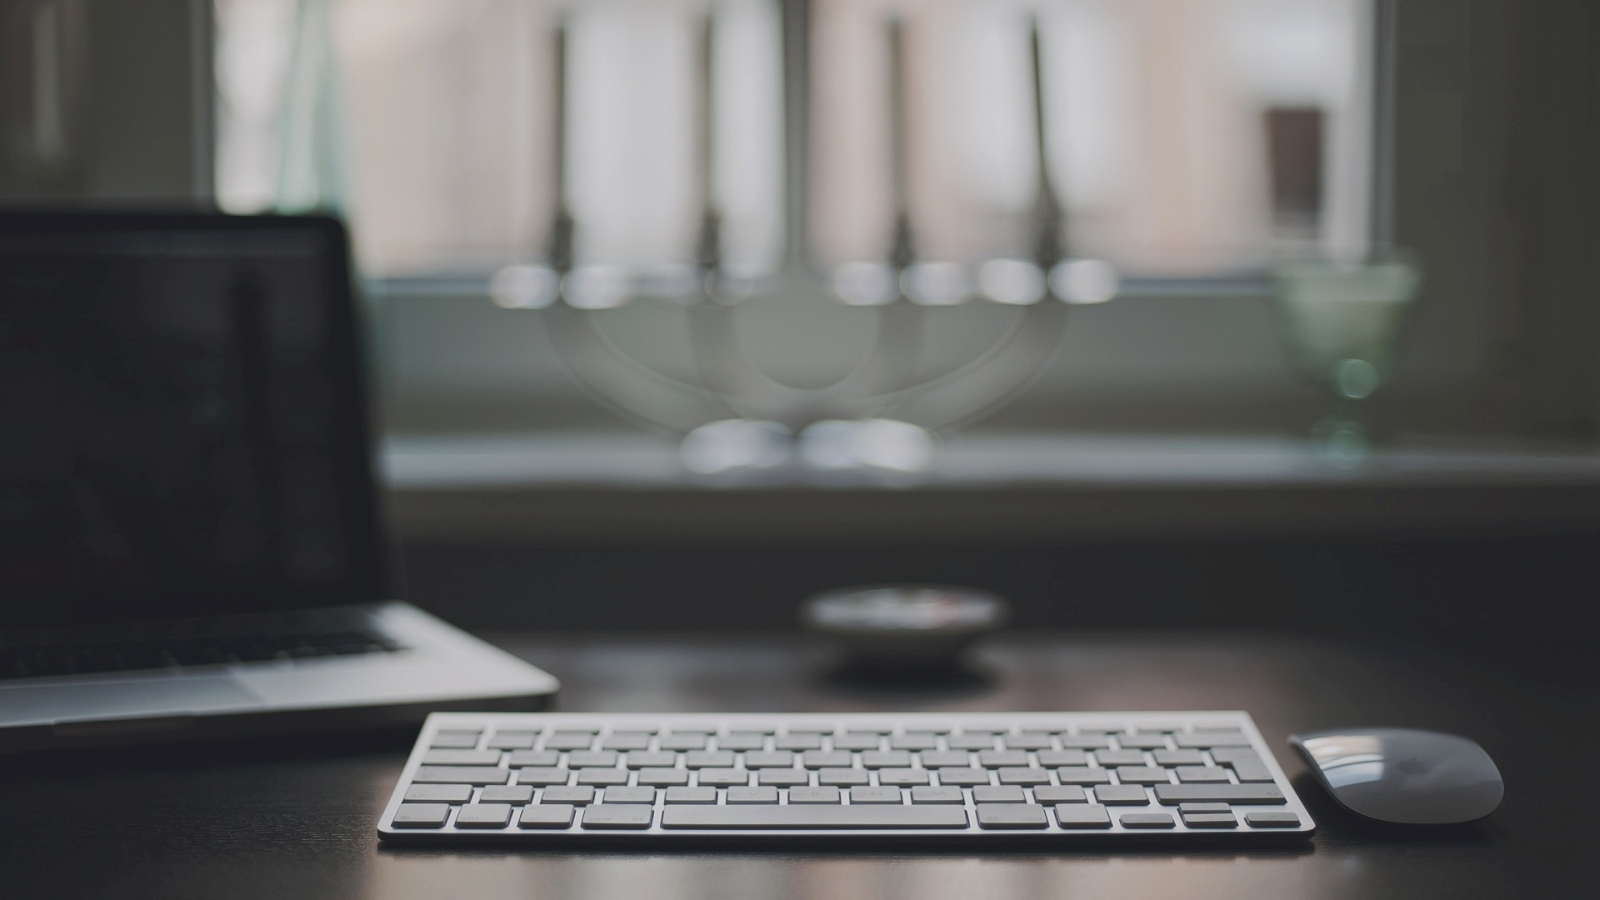
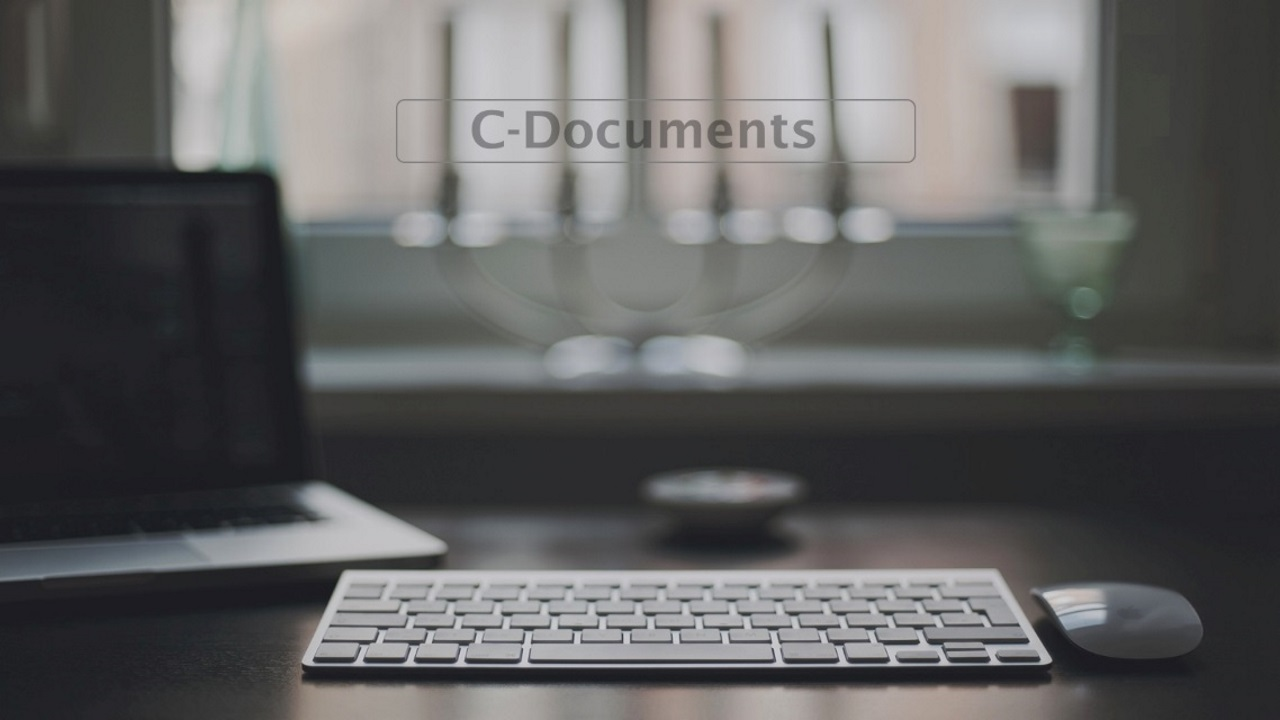
cambiado el welcome y agregado número de  cliente en documents y transmittals

Changed region(s): [[0.3438, 0.1528, 0.6562, 0.2139]]

diff --git a/database/seeds/DocumentsTableSeeder.php b/database/seeds/DocumentsTableSeeder.php
@@ -13,17 +13,17 @@ class DocumentsTableSeeder extends Seeder
     {
       DB::table('documents')->insert([
 
-        ["title"=>"Titulo 1","number"=>"0001","revision"=>"A","revision_date"=>"2006-01-01","user_id"=>"1","area_id"=>"1","discipline_id"=>"2","status_id"=>"1","project_id"=>"2","division_id"=>"2"  ],
-  ["title"=>"Titulo 2","number"=>"0002","revision"=>"A","revision_date"=>"2006-01-01","user_id"=>"1","area_id"=>"1","discipline_id"=>"2","status_id"=>"1","project_id"=>"2","division_id"=>"2"],
-  ["title"=>"Titulo 3","number"=>"0003","revision"=>"A","revision_date"=>"2006-01-01","user_id"=>"1","area_id"=>"1","discipline_id"=>"2","status_id"=>"1","project_id"=>"2","division_id"=>"2"],
-  ["title"=>"Titulo 4","number"=>"0004","revision"=>"A","revision_date"=>"2006-01-01","user_id"=>"1","area_id"=>"1","discipline_id"=>"2","status_id"=>"1","project_id"=>"2","division_id"=>"3"],
-  ["title"=>"Titulo 1","number"=>"0005","revision"=>"A","revision_date"=>"2006-01-01","user_id"=>"1","area_id"=>"1","discipline_id"=>"2","status_id"=>"1","project_id"=>"2","division_id"=>"1"],
-  ["title"=>"Titulo 1","number"=>"0005","revision"=>"A","revision_date"=>"2006-01-01","user_id"=>"1","area_id"=>"2","discipline_id"=>"2","status_id"=>"2","project_id"=>"2","division_id"=>"2"],
-  ["title"=>"Titulo 1","number"=>"0007","revision"=>"A","revision_date"=>"2006-01-01","user_id"=>"1","area_id"=>"3","discipline_id"=>"2","status_id"=>"3","project_id"=>"2","division_id"=>"2"],
-  ["title"=>"Titulo 1","number"=>"0006","revision"=>"A","revision_date"=>"2006-01-01","user_id"=>"1","area_id"=>"1","discipline_id"=>"2","status_id"=>"1","project_id"=>"2","division_id"=>"2"],
-  ["title"=>"Titulo 1","number"=>"0007","revision"=>"A","revision_date"=>"2006-01-01","user_id"=>"1","area_id"=>"1","discipline_id"=>"2","status_id"=>"1","project_id"=>"2","division_id"=>"1"],
-  ["title"=>"Titulo 1","number"=>"0008","revision"=>"A","revision_date"=>"2006-01-01","user_id"=>"1","area_id"=>"1","discipline_id"=>"2","status_id"=>"1","project_id"=>"2","division_id"=>"2"],
-  ["title"=>"Titulo 1","number"=>"0009","revision"=>"A","revision_date"=>"2006-01-01","user_id"=>"1","area_id"=>"1","discipline_id"=>"2","status_id"=>"1","project_id"=>"2","division_id"=>"2"]
+        ["title"=>"Titulo 1","number"=>"0001","revision"=>"A","revision_date"=>"2006-01-01","client_code"=>"","user_id"=>"1","area_id"=>"1","discipline_id"=>"2","status_id"=>"1","project_id"=>"2","division_id"=>"2"  ],
+  ["title"=>"Titulo 2","number"=>"0002","revision"=>"A","revision_date"=>"2006-01-01","client_code"=>"","user_id"=>"1","area_id"=>"1","discipline_id"=>"2","status_id"=>"1","project_id"=>"2","division_id"=>"2"],
+  ["title"=>"Titulo 3","number"=>"0003","revision"=>"A","revision_date"=>"2006-01-01","client_code"=>"","user_id"=>"1","area_id"=>"1","discipline_id"=>"2","status_id"=>"1","project_id"=>"2","division_id"=>"2"],
+  ["title"=>"Titulo 4","number"=>"0004","revision"=>"A","revision_date"=>"2006-01-01","client_code"=>"","user_id"=>"1","area_id"=>"1","discipline_id"=>"2","status_id"=>"1","project_id"=>"2","division_id"=>"3"],
+  ["title"=>"Titulo 1","number"=>"0005","revision"=>"A","revision_date"=>"2006-01-01","client_code"=>"","user_id"=>"1","area_id"=>"1","discipline_id"=>"2","status_id"=>"1","project_id"=>"2","division_id"=>"1"],
+  ["title"=>"Titulo 1","number"=>"0005","revision"=>"A","revision_date"=>"2006-01-01","client_code"=>"","user_id"=>"1","area_id"=>"2","discipline_id"=>"2","status_id"=>"2","project_id"=>"2","division_id"=>"2"],
+  ["title"=>"Titulo 1","number"=>"0007","revision"=>"A","revision_date"=>"2006-01-01","client_code"=>"","user_id"=>"1","area_id"=>"3","discipline_id"=>"2","status_id"=>"3","project_id"=>"2","division_id"=>"2"],
+  ["title"=>"Titulo 1","number"=>"0006","revision"=>"A","revision_date"=>"2006-01-01","client_code"=>"","user_id"=>"1","area_id"=>"1","discipline_id"=>"2","status_id"=>"1","project_id"=>"2","division_id"=>"2"],
+  ["title"=>"Titulo 1","number"=>"0007","revision"=>"A","revision_date"=>"2006-01-01","client_code"=>"","user_id"=>"1","area_id"=>"1","discipline_id"=>"2","status_id"=>"1","project_id"=>"2","division_id"=>"1"],
+  ["title"=>"Titulo 1","number"=>"0008","revision"=>"A","revision_date"=>"2006-01-01","client_code"=>"","user_id"=>"1","area_id"=>"1","discipline_id"=>"2","status_id"=>"1","project_id"=>"2","division_id"=>"2"],
+  ["title"=>"Titulo 1","number"=>"0009","revision"=>"A","revision_date"=>"2006-01-01","client_code"=>"","user_id"=>"1","area_id"=>"1","discipline_id"=>"2","status_id"=>"1","project_id"=>"2","division_id"=>"2"]
 
             ]);
     }

diff --git a/resources/views/layouts/app.blade.php b/resources/views/layouts/app.blade.php
@@ -19,7 +19,7 @@ $transmittals  = \App\Transmittal::all();
     <!-- CSRF Token -->
     <meta name="csrf-token" content="{{ csrf_token() }}">
 
-    <title>{{ config('app.name', 'C-Docs') }}</title>
+    <title>{{ config('app.name', 'C-Documents') }}</title>
 
     <!-- Styles -->
     <link href="/css/app.css" rel="stylesheet">
@@ -48,14 +48,14 @@ $transmittals  = \App\Transmittal::all();
 
                     <!-- Branding Image -->
                     <a class="navbar-brand" href="{{ url('/') }}">
-                        {{ config('app.name', 'C-Docs') }}
+                        {{ config('app.name', 'C-Documents') }}
                     </a>
                 </div>
 
                 <div class="collapse navbar-collapse" id="app-navbar-collapse">
                     <!-- Left Side Of Navbar -->
                     <a class="" href="{{ url('/') }}">
-                      <img src="/images/logo_white.jpg" height="50px"alt="">
+                      <img src="/images/icono.png" height="50px"alt="">
                           </a>
                     <ul class="nav navbar-nav">
                         &nbsp;

diff --git a/resources/views/welcome.blade.php b/resources/views/welcome.blade.php
@@ -5,7 +5,7 @@
         <meta http-equiv="X-UA-Compatible" content="IE=edge">
         <meta name="viewport" content="width=device-width, initial-scale=1">
 
-        <title>C-Docs</title>
+        <title>C-Documents</title>
 
         <!-- Fonts -->
         <link href="https://fonts.googleapis.com/css?family=Raleway:100,600" rel="stylesheet" type="text/css">
@@ -109,9 +109,7 @@ margin: auto;
 
 
 
-              <div class="rd-dv">
-                  <img src="./images/logo_white.jpg " alt=""height ="100px" style="border-radius:10px;margin-right:200px">
-              </div>
+            
                 <!-- SIXTH EXAMPLE -->
                 <div class="rd-dv view view-sixth col-xs-12 col-md-3">
                     <img src="./images/blueprint.jpg" style="padding:none;display:inline-block;height:110%"/>

diff --git a/database/seeds/UsersTableSeeder.php b/database/seeds/UsersTableSeeder.php
@@ -13,13 +13,13 @@ class UsersTableSeeder extends Seeder
     {
       DB::table('users')->insert([
         [
-        // 'name' => 'Leandro Prada',
-        // 'email' => 'leandroprada@gmail.com',
-        // 'password' => '$2y$10$zauLTDlwE/BFfU.uGgjw1OihDPKe4Xl3/iv1edSMwKHg/90ryC6Sa',
-        // 'remember_token' => 'ckKCRzRBvVfdf5YLfh8eBaqZegdqp4j3On72lrueDb0t0RJh4IiQWDcMNSpU',
-        // 'project_id' => '1',
-        // 'role_id' => '1',
-        // 'discipline_id' => '5'
+        'name' => 'Leandro Prada',
+        'email' => 'leandroprada1@gmail.com',
+        'password' => '$2y$10$zauLTDlwE/BFfU.uGgjw1OihDPKe4Xl3/iv1edSMwKHg/90ryC6Sa',
+        'remember_token' => "",
+        'project_id' => '1',
+        'role_id' => '1',
+        'discipline_id' => '5'
       ]
 ]);
     }

diff --git a/database/migrations/2016_12_18_015236_add_docnumber_to_transmittal.php b/database/migrations/2016_12_18_015236_add_docnumber_to_transmittal.php
@@ -1,0 +1,33 @@
+<?php
+
+use Illuminate\Support\Facades\Schema;
+use Illuminate\Database\Schema\Blueprint;
+use Illuminate\Database\Migrations\Migration;
+
+class AddDocnumberToTransmittal extends Migration
+{
+    /**
+     * Run the migrations.
+     *
+     * @return void
+     */
+    public function up()
+    {
+        Schema::table('transmittals', function (Blueprint $table) {
+          $table->string('client_code',255);
+            
+        });
+    }
+
+    /**
+     * Reverse the migrations.
+     *
+     * @return void
+     */
+    public function down()
+    {
+        Schema::table('transmittals', function (Blueprint $table) {
+            //
+        });
+    }
+}

diff --git a/database/migrations/2016_12_18_015213_add_docnumber_to_document.php b/database/migrations/2016_12_18_015213_add_docnumber_to_document.php
@@ -1,0 +1,32 @@
+<?php
+
+use Illuminate\Support\Facades\Schema;
+use Illuminate\Database\Schema\Blueprint;
+use Illuminate\Database\Migrations\Migration;
+
+class AddDocnumberToDocument extends Migration
+{
+    /**
+     * Run the migrations.
+     *
+     * @return void
+     */
+    public function up()
+    {
+        Schema::table('documents', function (Blueprint $table) {
+              $table->string('client_code',255);
+        });
+    }
+
+    /**
+     * Reverse the migrations.
+     *
+     * @return void
+     */
+    public function down()
+    {
+        Schema::table('documents', function (Blueprint $table) {
+            //
+        });
+    }
+}

diff --git a/resources/views/documents/form.blade.php b/resources/views/documents/form.blade.php
@@ -49,6 +49,10 @@
         <input type="text" name="number" value="{{ old('number') }}" placeholder="0001" class="form-control">
       </div>
       <div class="form-group">
+        <label for="client_code">Client Code</label>
+        <input type="text" name="client_code" value="{{ old('client_code') }}" placeholder="Type Client Code" class="form-control">
+      </div>
+      <div class="form-group">
         <label for="revision">Revision</label>
         <input type="text" name="revision" value="{{ old('revision') }}"  placeholder="A" class="form-control">
       </div>

diff --git a/database/migrations/2014_10_12_000000_create_users_table.php b/database/migrations/2014_10_12_000000_create_users_table.php
@@ -15,7 +15,7 @@ class CreateUsersTable extends Migration
     {
         Schema::create('users', function (Blueprint $table) {
             $table->increments('id');
-            $table->string('name');
+            $table->string('name')->nullable;
             $table->string('email')->unique();
             $table->string('password');
             $table->rememberToken();

diff --git a/resources/views/home.blade.php b/resources/views/home.blade.php
@@ -5,7 +5,7 @@
     <div class="row">
         <div class="col-md-8 col-md-offset-2">
             <div class="panel panel-default">
-                <div class="panel-heading">C-Docs - Documents you see</div>
+                <div class="panel-heading">C-Documents - Documents you see</div>
 
                 <div class="panel-body">
                     You are Logged in!

diff --git a/app/Document.php b/app/Document.php
@@ -14,7 +14,7 @@ use App\Transmittal;
 class Document extends Model
 {
 
-protected $fillable =['title','number','revision','revision_date'];
+protected $fillable =['title','number','client_code','revision','revision_date'];
 
 
   public function user(){

diff --git a/config/app.php b/config/app.php
@@ -12,7 +12,7 @@ return [
     | any other location as required by the application or its packages.
     */
 
-    'name' => 'C-Docs',
+    'name' => 'C-Documents',
 
     /*
     |--------------------------------------------------------------------------
